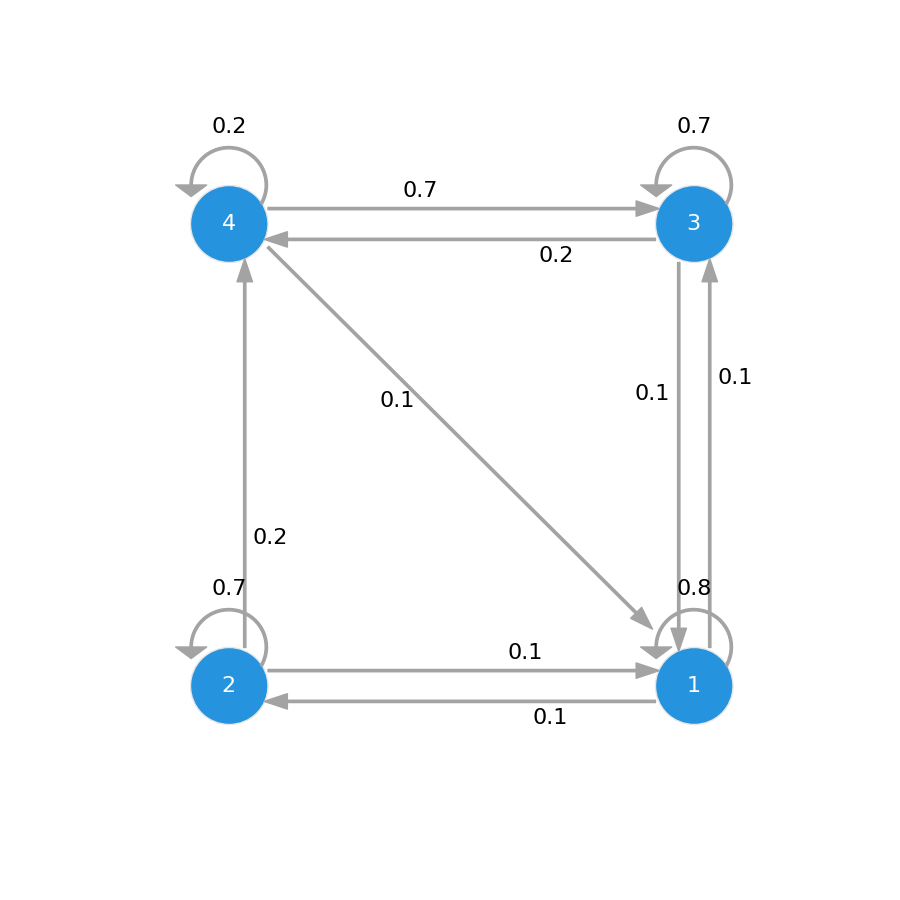
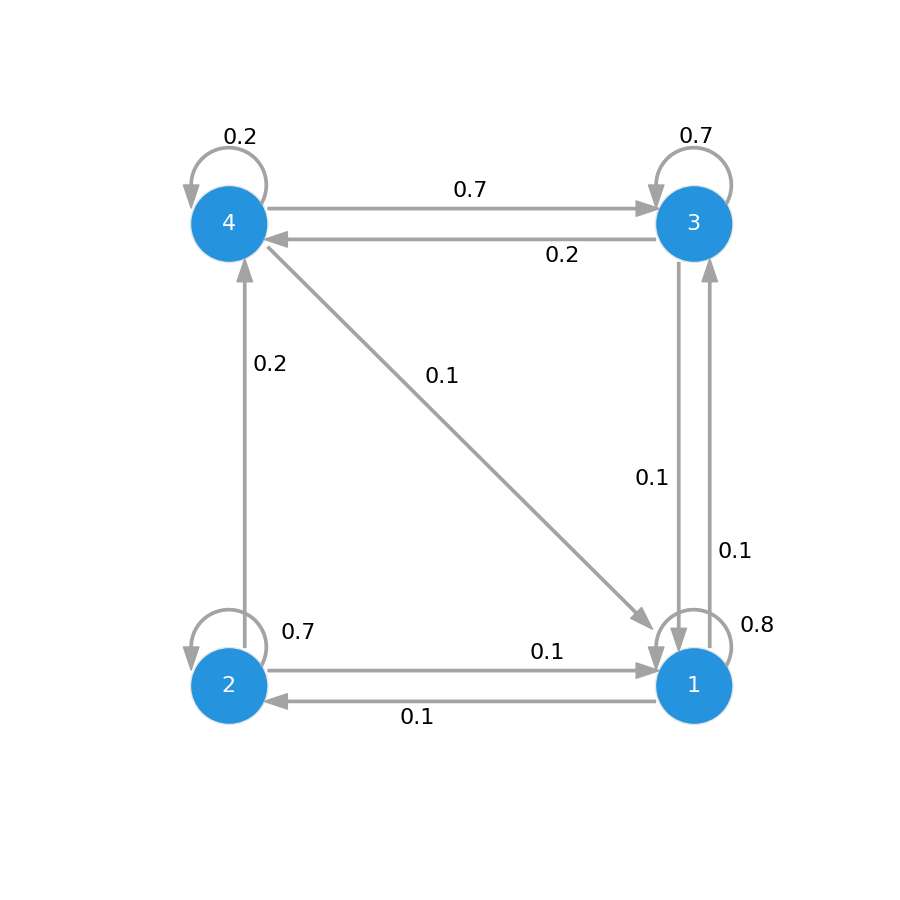
fine adjustment

diff --git a/demo.py b/demo.py
@@ -8,51 +8,56 @@ from mdp_display.render import MarkovDisplay
 
 def main():
     
-    #--------------------------------------------------------------------------
-    # 2-state Markov chain
-    #--------------------------------------------------------------------------
-    P = np.array([[0.8, 0.2], [0.1, 0.9]]) # Transition matrix
-    mc = MarkovDisplay(P, ['1', '2'])
-    mc.draw("img/markov-chain-two-states.png")
+    if 0:
+        #--------------------------------------------------------------------------
+        # 2-state Markov chain
+        #--------------------------------------------------------------------------
+        P = np.array([[0.8, 0.2], [0.1, 0.9]]) # Transition matrix
+        mc = MarkovDisplay(P, ['1', '2'])
+        mc.draw("img/markov-chain-two-states.png")
     
-    #--------------------------------------------------------------------------
-    # 3-state Markov chain
-    #--------------------------------------------------------------------------
-    P = np.array([
-        [0.8, 0.1, 0.1],
-        [0.1, 0.7, 0.2],
-        [0.1, 0.7, 0.2],
-    ])
-    mc = MarkovDisplay(P, ['A', 'B', 'C'])
-    mc.draw("img/markov-chain-three-states.png")
+    if 0:
+        #--------------------------------------------------------------------------
+        # 3-state Markov chain
+        #--------------------------------------------------------------------------
+        P = np.array([
+            [0.8, 0.1, 0.1],
+            [0.1, 0.7, 0.2],
+            [0.1, 0.7, 0.2],
+        ])
+        mc = MarkovDisplay(P, ['A', 'B', 'C'])
+        mc.draw("img/markov-chain-three-states.png")
  
-    #--------------------------------------------------------------------------
-    # 4-state Markov chain
-    #--------------------------------------------------------------------------
-    P = np.array([
-        [0.8, 0.1, 0.1, 0.0], 
-        [0.1, 0.7, 0.0, 0.2],
-        [0.1, 0.0, 0.7, 0.2],
-        [0.1, 0.0, 0.7, 0.2]
-    ])
-    mc = MarkovDisplay(P, ['1', '2', '3', '4'])
-    mc.draw("img/markov-chain-four-states.png")
+    if 1:
+        #--------------------------------------------------------------------------
+        # 4-state Markov chain
+        #--------------------------------------------------------------------------
+        P = np.array([
+            [0.8, 0.1, 0.1, 0.0], 
+            [0.1, 0.7, 0.0, 0.2],
+            [0.1, 0.0, 0.7, 0.2],
+            [0.1, 0.0, 0.7, 0.2]
+        ])
+        mc = MarkovDisplay(P, ['1', '2', '3', '4'])
+        mc.draw("img/markov-chain-four-states.png")
     
-    #--------------------------------------------------------------------------
-    # N-state Markov chain
-    #--------------------------------------------------------------------------
-    from random import randrange
-    from mdp_display.MDP import normalize_discrete_dist, sample_bernoulli
-    N = 9
-    P = np.zeros( (N,N) )
-    for i in range(N-1):
-        row = np.zeros( N )
-        for j in range(i, N):
-            if (abs(i-j) <= 2) and sample_bernoulli( 0.65 ):
-                row[j] = randrange(20) 
-        P[i,:] = np.array(  normalize_discrete_dist( row )  )
-    mc = MarkovDisplay( P, [str(i) for i in range(1,N+1)] )
-    mc.draw("img/markov-chain-N-states.png")
+    
+    if 0:
+        #--------------------------------------------------------------------------
+        # N-state Markov chain
+        #--------------------------------------------------------------------------
+        from random import randrange
+        from mdp_display.MDP import normalize_discrete_dist, sample_bernoulli
+        N = 9
+        P = np.zeros( (N,N) )
+        for i in range(N-1):
+            row = np.zeros( N )
+            for j in range(i, N):
+                if (abs(i-j) <= 2) and sample_bernoulli( 0.65 ):
+                    row[j] = randrange(20) 
+            P[i,:] = np.array(  normalize_discrete_dist( row )  )
+        mc = MarkovDisplay( P, [str(i) for i in range(1,N+1)] )
+        mc.draw("img/markov-chain-N-states.png")
             
     
 

diff --git a/render.py b/render.py
@@ -6,6 +6,7 @@ from matplotlib.collections import PatchCollection
 import matplotlib.pyplot as plt
 from random import random
 import os, sys, pathlib
+from math import pi, cos, sin
 
 
 
@@ -113,22 +114,30 @@ class RenderNode():
         """
         Draws a self loop
         """
+        
+        arwLen  = 0.30
+        theta   = rand_range( -pi*3/8, +pi*3/8 )
+        radFctr = self.radius*2.25
+        rwHalf  = self.ring_width/2
+        
         if direction == 'up':
             start = -30
             angle = 180
             ring_x = self.x
             ring_y = self.y + self.radius
-            prob_y = self.y + self.radius*2.5
-            x_cent = ring_x - self.radius + (self.ring_width/2)
-            y_cent = ring_y - 0.15
+            prob_y = self.y + cos(theta)*radFctr
+            x_cent = ring_x - self.radius + rwHalf
+            y_cent = ring_y - arwLen
         else:
             start = -210
             angle = 0
             ring_x = self.x
             ring_y = self.y - self.radius
-            prob_y = self.y - self.radius*2.5
-            x_cent = ring_x + self.radius - (self.ring_width/2)
-            y_cent = ring_y + 0.15
+            prob_y = self.y - cos(theta)*radFctr
+            x_cent = ring_x + self.radius - rwHalf
+            y_cent = ring_y + arwLen
+            
+        prob_x = self.x + sin(theta)*radFctr
             
         # Add the ring
         ring = mpatches.Wedge(
@@ -139,7 +148,7 @@ class RenderNode():
             width = self.ring_width
         )
         # Add the triangle (arrow)
-        offset = 0.2
+        offset = 0.1
         left   = [x_cent - offset, ring_y]
         right  = [x_cent + offset, ring_y]
         bottom = [(left[0]+right[0])/2., y_cent]
@@ -154,7 +163,7 @@ class RenderNode():
         
         # Probability to add?
         if prob:
-            ax.annotate(str( round( prob, decDig ) ), xy=(self.x, prob_y), color='#000000', **self.text_args)
+            ax.annotate(str( round( prob, decDig ) ), xy=(prob_x, prob_y), color='#000000', **self.text_args)
 
 
             
@@ -347,14 +356,32 @@ class MarkovDisplay:
             else:
                 yoffset += pH/2.0
         
+        elif dx == dy:
+            
+            # Left
+            if DX < 0.0:
+                yoffset -= pH/2.0
+            # Right
+            else:
+                yoffset += pH/2.0
+                
+            # Up
+            if DY > 0.0:
+                xoffset -= pW/2.0
+            # Down
+            else:
+                xoffset += pW/2.0
+    
         # Vert
         else:
             # Up
             if DY > 0.0:
-                xoffset += pW/2.0
+                xoffset += pW*0.50
             # Down
             else:
-                xoffset -= pW/2.0
+                xoffset -= pW*0.50
+                
+                
         
         # Probability to add
         frac = rand_range( 0.2, 0.8 )
